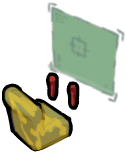
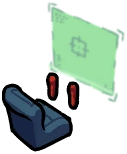
add_mission

diff --git a/imposter/src/scene/game.js b/imposter/src/scene/game.js
@@ -21,7 +21,8 @@ import { PLAYER_SPEED } from "../consts/constants";
 
 //marked mission
 
-import CleanO2Filter_mission_marked from "../assets/tasks/Clean O2 Filter/marked.png"
+import CleanO2Filter_mission_marked from "../assets/tasks/Clean O2 Filter/marked.png";
+import AlignEnginOutput_gallery from "../assets/tasks/Align Engine Output/gallery.png";
 import FixWiring_mission_marked from "../assets/tasks/Fix_Wiring/marked.png";
 import CleanAsteroids from "../assets/tasks/Clear Asteroids/marked.png";
 import StabilizeSteering from "../assets/tasks/Stabilize Steering/marked.png";
@@ -89,10 +90,13 @@ class Game extends Phaser.Scene {
     this.load.atlas("Archaeologist_Walk", Archaeologist_Walk_png, Archaeologist_Walk_json);
 
 
-    this.load.image(
-      "AlignEngineOutput_mission_marked",
-      AlignEngineOutput_mission_marked
-    );
+    // this.load.image(
+    //   "AlignEngineOutput_mission_marked",
+    //   AlignEngineOutput_mission_marked
+    // );
+
+    this.load.image("AlignEngineOutput_mission_marked", AlignEnginOutput_gallery);
+
 
     this.load.image("CleanO2Filter_mission_marked", CleanO2Filter_mission_marked);
     this.load.image("FixWiring_mission_marked", FixWiring_mission_marked);
@@ -170,11 +174,11 @@ class Game extends Phaser.Scene {
         "idle.png"
       );
     }
-    this.idPlayers.forEach((element) => {
-      if (element != this.socket.id) {
-        otherPlayerId.push(element);
-      }
-    });
+    // this.idPlayers.forEach((element) => {
+    //   if (element != this.socket.id) {
+    //     otherPlayerId.push(element);
+    //   }
+    // });
     // console.log(otherPlayerId);
 
     // stt = otherPlayer.length;
@@ -434,65 +438,65 @@ class Game extends Phaser.Scene {
 
     })
 
-    this.socket.on("move", ({ x, y, playerId }) => {
-      //console.log({ x, y, playerId });
+    // this.socket.on("move", ({ x, y, playerId }) => {
+    //   //console.log({ x, y, playerId });
 
-      let index = otherPlayerId.findIndex((Element) => Element == playerId);
-      //id = index;
-      // console.log(index);
+    //   let index = otherPlayerId.findIndex((Element) => Element == playerId);
+    //   //id = index;
+    //   // console.log(index);
 
-      if (otherPlayer[index].x > x) {
-        otherPlayer[index].flipX = true;
-      } else if (otherPlayer[index].x < x) {
-        otherPlayer[index].flipX = false;
-      }
-      otherPlayer[index].x = x;
-      otherPlayer[index].y = y;
-      otherPlayer[index].moving = true;
+    //   if (otherPlayer[index].x > x) {
+    //     otherPlayer[index].flipX = true;
+    //   } else if (otherPlayer[index].x < x) {
+    //     otherPlayer[index].flipX = false;
+    //   }
+    //   otherPlayer[index].x = x;
+    //   otherPlayer[index].y = y;
+    //   otherPlayer[index].moving = true;
 
-      if (otherPlayer[index].moving && !otherPlayer[index].anims.isPlaying) {
-        otherPlayer[index].play("player-walk");
-      } else if (
-        !otherPlayer[index].moving &&
-        otherPlayer[index].anims.isPlaying
-      ) {
-        otherPlayer[index].stop("player-walk");
-      }
-    });
+    //   if (otherPlayer[index].moving && !otherPlayer[index].anims.isPlaying) {
+    //     otherPlayer[index].play("player-walk");
+    //   } else if (
+    //     !otherPlayer[index].moving &&
+    //     otherPlayer[index].anims.isPlaying
+    //   ) {
+    //     otherPlayer[index].stop("player-walk");
+    //   }
+    // });
 
     // console.log(objectsLayer);
 
-    this.socket.on("moveEnd", ({ playerId }) => {
-      let index = otherPlayerId.findIndex((Element) => Element == playerId);
-      otherPlayer[index].moving = false;
-      otherPlayer[index].anims.play("player-idle");
-      if (otherPlayer[index].moving && !otherPlayer[index].anims.isPlaying) {
-        otherPlayer[index].play("player-walk");
-      } else if (
-        !otherPlayer[index].moving &&
-        otherPlayer[index].anims.isPlaying
-      ) {
-        otherPlayer[index].stop("player-walk");
-      }
-    });
+    // this.socket.on("moveEnd", ({ playerId }) => {
+    //   let index = otherPlayerId.findIndex((Element) => Element == playerId);
+    //   otherPlayer[index].moving = false;
+    //   otherPlayer[index].anims.play("player-idle");
+    //   if (otherPlayer[index].moving && !otherPlayer[index].anims.isPlaying) {
+    //     otherPlayer[index].play("player-walk");
+    //   } else if (
+    //     !otherPlayer[index].moving &&
+    //     otherPlayer[index].anims.isPlaying
+    //   ) {
+    //     otherPlayer[index].stop("player-walk");
+    //   }
+    // });
 
     //update if killed ==>> ************************TO GHOST*******************
-    this.socket.on("updateOtherPlayer", (playerId) => {
-      console.log(this.socket.id);
-      console.log(playerId);
-      if (this.socket.id == playerId) {
-        //run noitice died
-        console.log("this player killed");
-        //player.stop("player-idle")
-        alive = false;
+    // this.socket.on("updateOtherPlayer", (playerId) => {
+    //   console.log(this.socket.id);
+    //   console.log(playerId);
+    //   if (this.socket.id == playerId) {
+    //     //run noitice died
+    //     console.log("this player killed");
+    //     //player.stop("player-idle")
+    //     alive = false;
 
-        //*****************LOOP HERE********************** */
-        player.anims.play("player-dead", false);
-      } else {
-        let index = otherPlayerId.findIndex((Element) => Element == playerId);
-        otherPlayer[index].anims.play("player-dead", true);
-      }
-    });
+    //     //*****************LOOP HERE********************** */
+    //     player.anims.play("player-dead", false);
+    //   } else {
+    //     let index = otherPlayerId.findIndex((Element) => Element == playerId);
+    //     otherPlayer[index].anims.play("player-dead", true);
+    //   }
+    // });
 
   }
   update() {
@@ -577,11 +581,11 @@ class Game extends Phaser.Scene {
         playerMoved = true;
       }
       if (playerMoved) {
-        this.socket.emit("move", {
-          x: player.x,
-          y: player.y,
-          roomId: this.state.roomKey,
-        });
+        // this.socket.emit("move", {
+        //   x: player.x,
+        //   y: player.y,
+        //   roomId: this.state.roomKey,
+        // });
 
         let index = 0;
 
@@ -642,15 +646,15 @@ class Game extends Phaser.Scene {
       }
 
       if (playerMoved) {
-        this.socket.emit("move", {
-          x: player.x,
-          y: player.y,
-          roomId: this.state.roomKey,
-        });
+        // this.socket.emit("move", {
+        //   x: player.x,
+        //   y: player.y,
+        //   roomId: this.state.roomKey,
+        // });
         player.movedLastFrame = true;
       } else {
         if (player.movedLastFrame) {
-          this.socket.emit("moveEnd", { roomId: this.state.roomKey });
+          // this.socket.emit("moveEnd", { roomId: this.state.roomKey });
         }
         player.movedLastFrame = false;
       }
@@ -682,6 +686,7 @@ class Game extends Phaser.Scene {
         this.scene.launch(check_mission.scene, {
           x: check_mission.x,
           y: check_mission.y,
+          sprite: check_mission.sprite
         });
         launch_scene = false;
 

diff --git a/imposter/src/services/missions/align_engine_output.js b/imposter/src/services/missions/align_engine_output.js
@@ -11,8 +11,10 @@ class AlignEngineOutput extends Base {
     perform() {
         const check_mission = Base.prototype.is_mission_show(ALIGN_ENGINE_OUTPUT_MARKED_X, ALIGN_ENGINE_OUTPUT_MARKED_Y, this.x, this.y);
         if (check_mission) {
-            this.scene.scene.add.image(-1384, -500, "AlignEngineOutput_mission_marked");
-            return { scene: "align_engine_output", x: this.x, y: this.y }
+            // this.scene.scene.add.image(-1384, -500, "AlignEngineOutput_mission_marked");
+            let sprite = this.scene.scene.add.sprite(-1384, -500, "AlignEngineOutput_mission_marked");
+            sprite.tint =  Math.random() * 0xffff00;            
+            return { scene: "align_engine_output", x: this.x, y: this.y, sprite: sprite }
 
         }
         return;

diff --git a/imposter/src/scene/state/minigame/align_engine_output.js b/imposter/src/scene/state/minigame/align_engine_output.js
@@ -7,10 +7,12 @@ import Event_Center from "../../../helper/event_center";
 
 let x;
 let y;
+let sprite; 
 class AlignEngineOutput extends Phaser.Scene {
     init(data) {
         x = data.x;
         y = data.y;
+        sprite = data.sprite;
     }
 
     preload() {
@@ -56,6 +58,7 @@ class AlignEngineOutput extends Phaser.Scene {
                 check_y = dragY;
                 if (Math.floor(check_y) == 414) {
                     current_object.add.text(390, 250, "Mission Completed");
+                    sprite.tint = 0;
                     Event_Center.emit("continue_scene_game", {x: x, y: y, mission: "AlignEngineOutput"});
                     current_scene.stop("align_engine_output");
                 }

diff --git a/imposter/src/scene/state/ingame/cleanO2Filter.js b/imposter/src/scene/state/ingame/cleanO2Filter.js
@@ -19,11 +19,13 @@ let leaf_1, leaf_2, leaf_3, leaf_4, leaf_5, leaf_6, leaf_7;
 const TOTAL_LEAF = 7;
 let x;
 let y;
+let sprite;
 
 class CleanO2Filter extends Phaser.Scene {
   init(data) {
     x = data.x;
     y = data.y;
+    sprite = data.sprite;
   }
 
   constructor() {
@@ -85,6 +87,7 @@ class CleanO2Filter extends Phaser.Scene {
           current_object.add.image(80, 300, "leftComplete");
           current_object.add.image(140, 303, "rightComplete");
           current_object.add.text(290, 250, "Task Completed");
+          sprite.tint = 0;
           Event_Center.emit("continue_scene_game", {x: x, y: y, mission: "CleanO2Filter"}); 
           current_scene.stop("CleanO2Filter"); 
         }

diff --git a/imposter/src/services/missions/cleanAsteroids.js b/imposter/src/services/missions/cleanAsteroids.js
@@ -16,8 +16,9 @@ class CleanAsteroids extends Base {
                                                             this.x, 
                                                             this.y);
         if(check_mission){
-            this.scene.scene.add.image(CLEAN_ASTEROIDS_MARKED_X, CLEAN_ASTEROIDS_MARKED_Y, "CleanAsteroids");
-            return {scene: "CleanAsteroids", x: this.x, y: this.y}
+            let sprite = this.scene.scene.add.sprite(CLEAN_ASTEROIDS_MARKED_X, CLEAN_ASTEROIDS_MARKED_Y, "CleanAsteroids");
+            sprite.tint =  Math.random() * 0xffff00;  
+            return {scene: "CleanAsteroids", x: this.x, y: this.y, sprite: sprite}
             
         }
         return;      

diff --git a/imposter/src/scene/state/minigame/fix_wiring.js b/imposter/src/scene/state/minigame/fix_wiring.js
@@ -22,10 +22,13 @@ let color_left = ['FF0000', 'FF00FF', '0000FF', 'FFFF00'];
 let x;
 let y;
 let current_scene;
+let sprite;
+
 class FixWiring extends Phaser.Scene {
     init(data) {
         x = data.x;
         y = data.y;
+        sprite = data.sprite;
     }
 
     constructor() {
@@ -158,6 +161,7 @@ class FixWiring extends Phaser.Scene {
         if (count.size === 4) {
             // console.log('done');
             text3 = this.add.text(317, 327, 'TASK COMPLETE!!', { font: '50px Courier', fill: '#FFFFFF' }).setDepth(1);
+            sprite.tint = 0;
             Event_Center.emit("continue_scene_game", {x: x, y: y, mission: "FixWiring"});
             current_scene.stop("fixWiring");
 

diff --git a/imposter/src/scene/state/minigame/stabilize_steering.js b/imposter/src/scene/state/minigame/stabilize_steering.js
@@ -9,11 +9,13 @@ let done = false;
 let x;
 let y;
 let current_scene;
+let sprite;
 
 class StabilizeSteering extends Phaser.Scene {
     init(data) {
         x = data.x;
         y = data.y;
+        sprite = data.sprite;
     }
 
     constructor() {
@@ -67,6 +69,7 @@ class StabilizeSteering extends Phaser.Scene {
     update() {
         if (done === true) {
             text = this.add.text(317, 327, 'TASK COMPLETE!!', { font: '50px Courier', fill: '#FFFFFF' }).setDepth(1);
+            sprite.tint = 0;
             Event_Center.emit("continue_scene_game", {x: x, y: y, mission: "StabilizeSteering"});
             current_scene.stop("stabilizeSteering");   
         }

diff --git a/imposter/src/services/missions/cleanO2Filter.js b/imposter/src/services/missions/cleanO2Filter.js
@@ -15,8 +15,9 @@ class CleanO2Filter extends Base {
             this.x,
             this.y);
         if (check_mission) {
-            this.scene.scene.add.image(CLEAN_02_FILTER_MARKED_X, CLEAN_02_FILTER_MARKED_Y, "CleanO2Filter_mission_marked");
-            return { scene: "CleanO2Filter", x: this.x, y: this.y }
+            let sprite = this.scene.scene.add.sprite(CLEAN_02_FILTER_MARKED_X, CLEAN_02_FILTER_MARKED_Y, "CleanO2Filter_mission_marked");
+            sprite.tint =  Math.random() * 0xffff00;  
+            return { scene: "CleanO2Filter", x: this.x, y: this.y, sprite: sprite }
 
         }
         return;

diff --git a/imposter/src/services/missions/stabilize_steering.js b/imposter/src/services/missions/stabilize_steering.js
@@ -14,8 +14,9 @@ class StabilizeSteering extends Base {
             this.x,
             this.y);
         if (check_mission) {
-            this.scene.scene.add.image(STABLE_STEERING_MARKED_X, STABLE_STEERING_MARKED_Y, "StabilizeSteering");
-            return { scene: "stabilizeSteering", x: this.x, y: this.y }
+            let sprite = this.scene.scene.add.sprite(STABLE_STEERING_MARKED_X, STABLE_STEERING_MARKED_Y, "StabilizeSteering");
+            sprite.tint =  Math.random() * 0xffff00;
+            return { scene: "stabilizeSteering", x: this.x, y: this.y, sprite: sprite }
 
         }
         return;

diff --git a/imposter/src/scene/state/ingame/cleanAsteroids.js b/imposter/src/scene/state/ingame/cleanAsteroids.js
@@ -23,12 +23,14 @@ let text;
 
 let x;
 let y;
+let sprite;
 
 class CleanAsteroids extends Phaser.Scene {
 
   init(data) {
     x = data.x;
     y = data.y;
+    sprite = data.sprite;
   }
 
   constructor() {
@@ -142,6 +144,7 @@ class CleanAsteroids extends Phaser.Scene {
         current_object.asteroid2.destroy();
         current_object.asteroid3.destroy();
         current_object.add.text(250, 300, "Task Complete");
+        sprite.tint = 0;
         Event_Center.emit("continue_scene_game", {x: x, y: y, mission: "CleanAsteroids"});
         current_scene.stop("CleanAsteroids"); 
       }

diff --git a/imposter/src/services/missions/fix_wiring.js b/imposter/src/services/missions/fix_wiring.js
@@ -14,8 +14,9 @@ class FixWiring extends Base {
             this.x,
             this.y);
         if (check_mission) {
-            this.scene.scene.add.image(FIX_WIRING_MARKED_X, FIX_WIRING_MARKED_Y, "FixWiring_mission_marked");
-            return { scene: "fixWiring", x: this.x, y: this.y }
+            let sprite = this.scene.scene.add.sprite(FIX_WIRING_MARKED_X, FIX_WIRING_MARKED_Y, "FixWiring_mission_marked");
+            sprite.tint =  Math.random() * 0xffff00
+            return { scene: "fixWiring", x: this.x, y: this.y, sprite: sprite }
 
         }
         return;

diff --git a/imposter/src/scene/menu.js b/imposter/src/scene/menu.js
@@ -65,8 +65,8 @@ export default class MainMenuScene extends Phaser.Scene {
         })
         playButton.on("pointerdown", () => {
             console.log('start game');
-            //this.scene.start('game', Game);
-            this.scene.start('joinGame', JoinGame);
+            this.scene.start('game', Game);
+            // this.scene.start('joinGame', JoinGame);
         })
         playButton.on("pointerout", () => {
             // this.scene.start(play);
